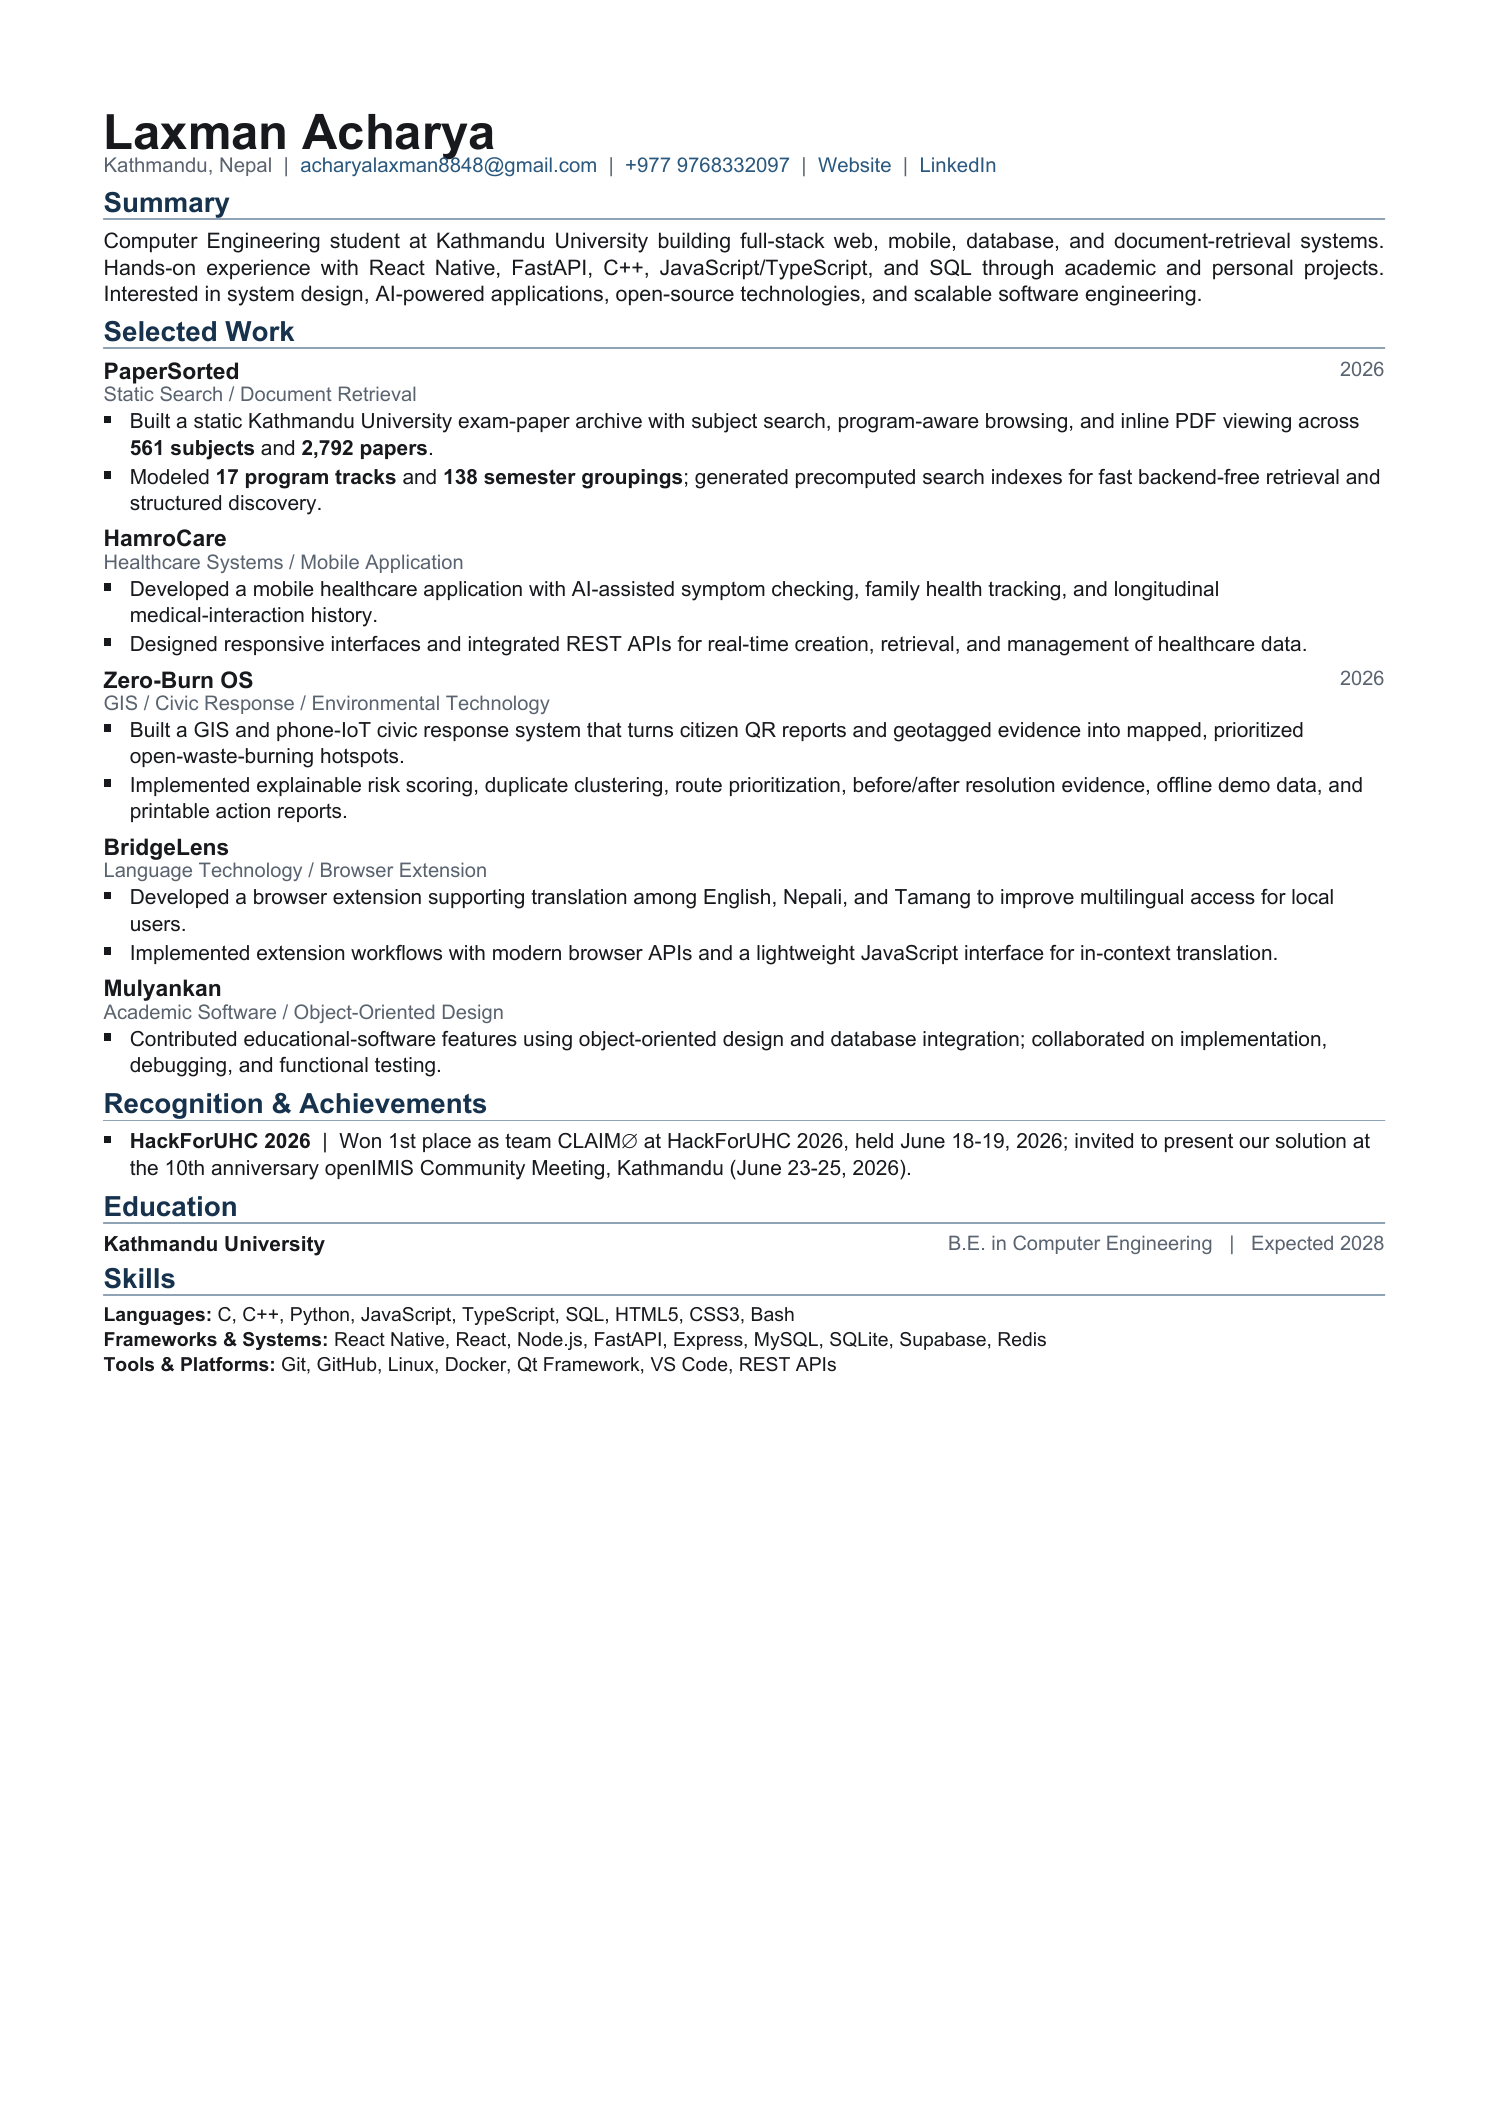
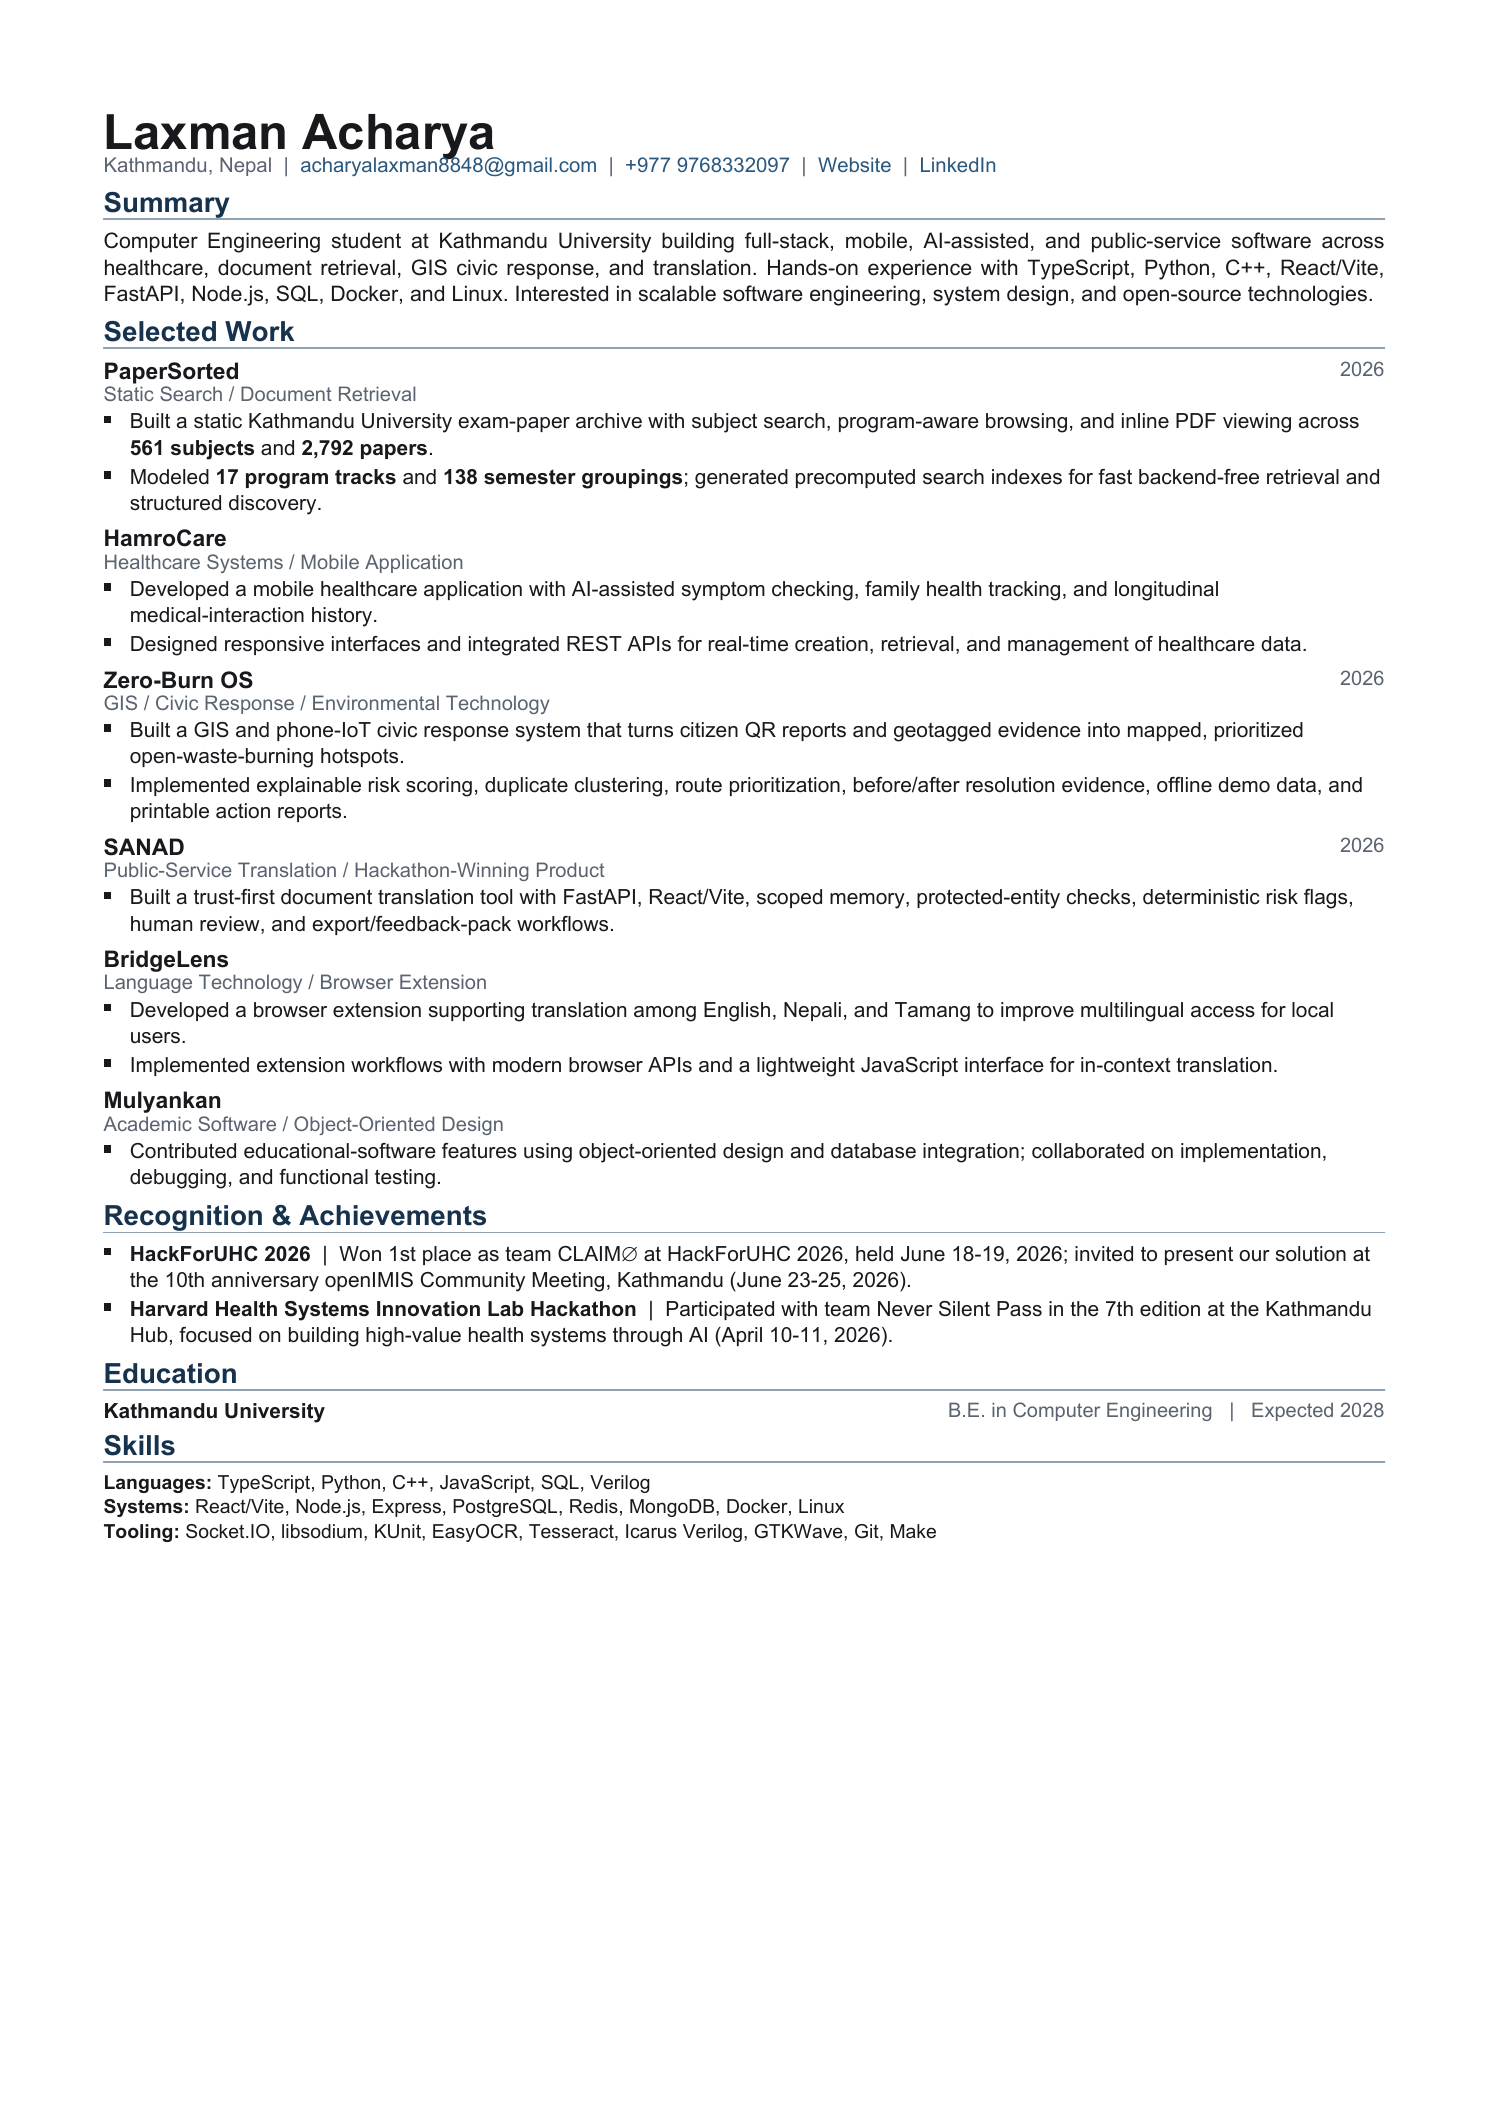
Add verified Harvard health hackathon achievement

Changed region(s): [[0.0618, 0.4014, 0.9268, 0.7411], [0.0618, 0.0926, 0.9268, 0.1544]]

diff --git a/src/data/portfolio.ts b/src/data/portfolio.ts
@@ -70,12 +70,13 @@ export const achievements: Achievement[] = [
   },
   {
     id: "harvard",
-    title: "Harvard Health Hackathon National Finalist",
-    date: "Kathmandu University",
+    title: "Harvard Health Systems Innovation Lab Hackathon",
+    date: "April 10–11, 2026",
     team: "Never Silent Pass",
-    badges: ["National Finalist", "Digital Health", "Kathmandu"],
+    location: "Kathmandu Hub",
+    badges: ["Participant", "Health Systems", "AI", "Kathmandu Hub"],
     description:
-      "It was a great experience presenting at the National Finale of the Harvard Health Hackathon held at Kathmandu University with team Never Silent Pass. This experience challenged us to think critically, collaborate under pressure, and turn ideas into meaningful solutions for real-world healthcare problems.",
+      "Participated with team Never Silent Pass in the 7th edition of the Harvard Health Systems Innovation Lab Hackathon at the Kathmandu Hub. The event focused on building high-value health systems by leveraging AI.",
   },
 ];
 

diff --git a/src/routes/index.tsx b/src/routes/index.tsx
@@ -20,7 +20,7 @@ export const Route = createFileRoute("/")({
       {
         property: "og:description",
         content:
-          "HackForUHC 2026 winner, openIMIS Community Meeting presenter, Harvard Health Hackathon finalist. Projects in digital health, language accessibility, and student finance.",
+          "HackForUHC 2026 winner, openIMIS Community Meeting presenter, and Harvard Health Systems Innovation Lab Hackathon participant. Projects in digital health, language accessibility, and student finance.",
       },
     ],
   }),

diff --git a/src/components/portfolio/HeroSection.tsx b/src/components/portfolio/HeroSection.tsx
@@ -3,7 +3,7 @@ import portraitImg from "@/assets/laxman-portrait.png";
 const proof = [
   ["01", "HackForUHC", "1st place winner"],
   ["02", "openIMIS", "Presented to global community"],
-  ["03", "Harvard Health", "National finalist"],
+  ["03", "Harvard Health", "Hackathon participant"],
 ];
 
 // Dia-style mixed wordmark: heavy Fraunces "Lax" morphs weight/softness,

diff --git a/src/components/portfolio/Masthead.tsx b/src/components/portfolio/Masthead.tsx
@@ -28,7 +28,7 @@ const searchItems = [
   {
     href: "#dispatches",
     title: "Harvard Health Hackathon",
-    keywords: "harvard finalist Kathmandu University healthcare achievements",
+    keywords: "harvard participant Kathmandu health systems AI hackathon achievements",
   },
   {
     href: "#work",
